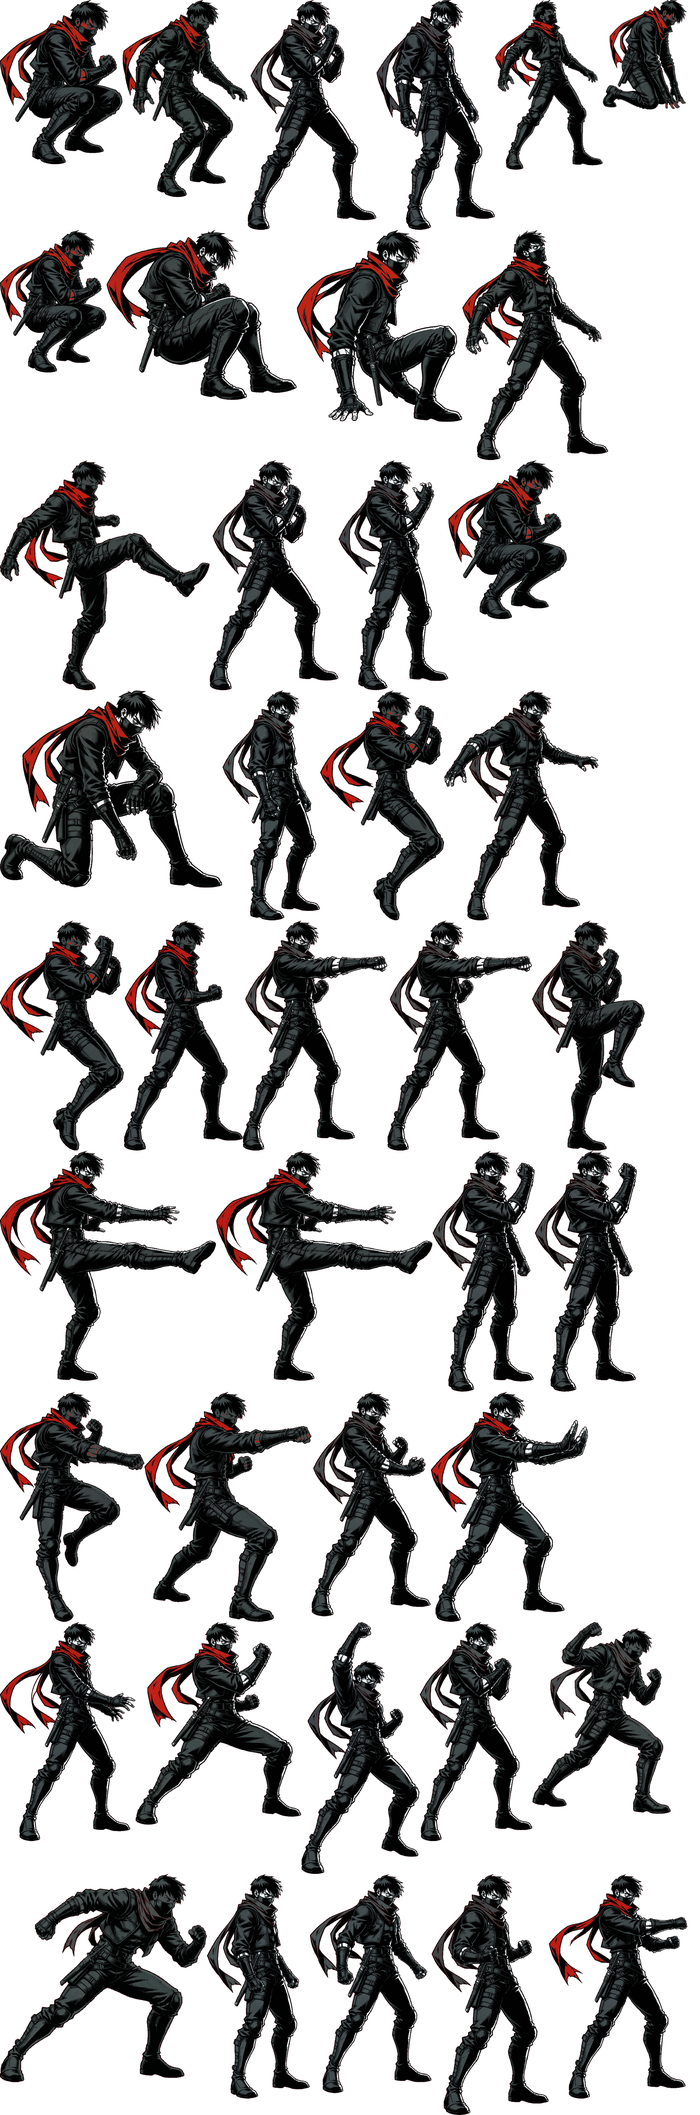
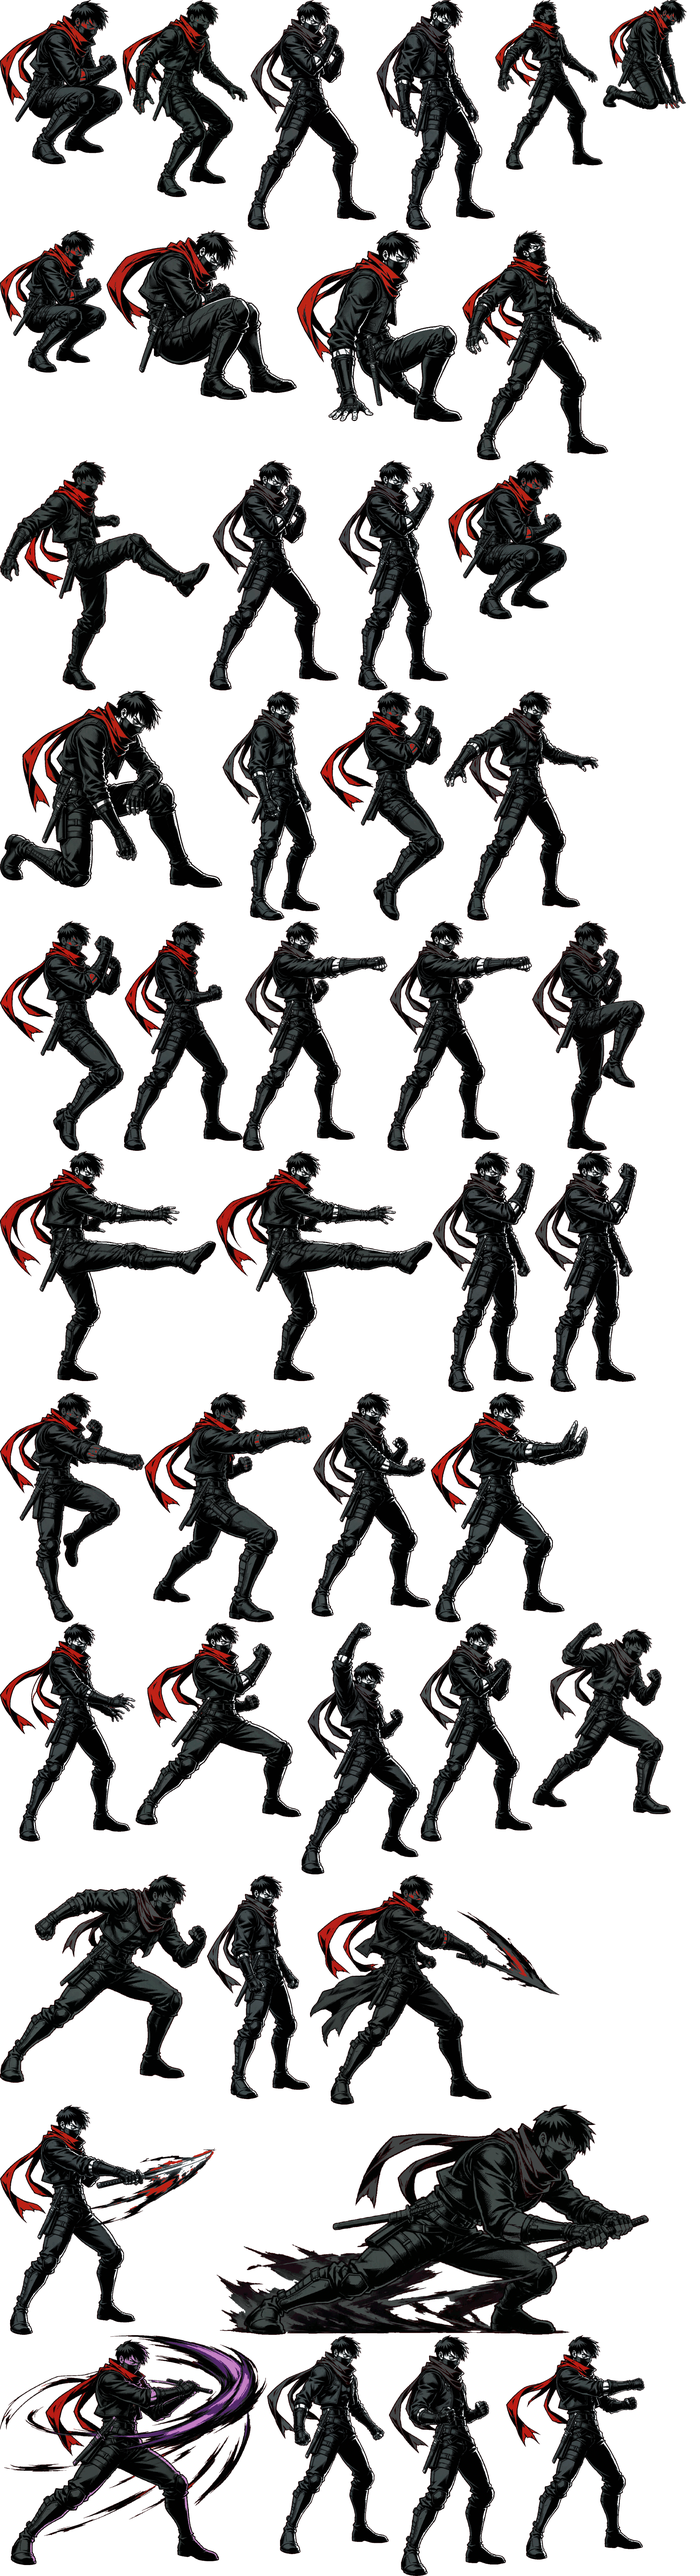
批次 20261027-0845 · [T269] 动作专属化 22/27：影二 + 真吾 各 4 招
改了什么：
- gen-poses 加 8 条（Eiji：紫黑刀气斜斩/上撩刀光/贴地残影/刀网；
  Shingo：零星火星/生涩踢腿/小火花/完整橙红火焰）
- build-sheet 加 eijispecial1-3 + eijisuper、shingospecial1-3 + shingosuper，
  并更新 EXCLUSIVE_OWNER
- poses.ts 加 8 个兜底
- eiji.ts / shingo.ts 各改 5 处

真吾的"未完成"表达得很到位：三招必杀都是"零星火星 + 姿势生涩"，只有超必杀才带起
完整火焰——这个层次差正好是"徒弟还没练成，但关键时候能爆发"。
影二的影すべり（贴地滑行）身下拖出大片紫黑残影，是这批动作幅度最大的一张。

出图：7/8 一次成功，eijikagesuberi 失败一次、单独重跑后成功。

怎么验证的：打包两个角色都检查了错误（grep -qi error），失败=0；art:check 通过；
npm run check 995 条全绿

diff --git a/src/data/chars/shingo.ts b/src/data/chars/shingo.ts
@@ -24,7 +24,7 @@ export const SHINGO: CharDef = {
 
     // ---------------------------------------------------------------- 必杀技
     // 荒咬み（未完成）：判定比京短一截
-    '236A': mv('236A', '荒咬み（未完成）', 'punchHeavy', 36, 'special', [
+    '236A': mv('236A', '荒咬み（未完成）', 'shingospecial1', 36, 'special', [
       hit('h1', {
         box: { x: 16, y: -62, w: 28, h: 14 },
         frames: [12, 15],
@@ -50,7 +50,7 @@ export const SHINGO: CharDef = {
     ], { input: { motion: '236', buttons: ['A'] } }),
 
     // 真吾キック：徒弟自己琢磨的踢
-    '214B': mv('214B', '真吾キック', 'kickHeavy', 38, 'special', [
+    '214B': mv('214B', '真吾キック', 'shingospecial2', 38, 'special', [
       hit('h1', {
         box: { x: 12, y: -62, w: 30, h: 18 },
         frames: [11, 15],
@@ -64,7 +64,7 @@ export const SHINGO: CharDef = {
     ], { input: { motion: '214', buttons: ['B'] }, travel: 50, travelFrames: 15 }),
 
     // 鬼焼き（未完成）：无敌帧也只有京的一半
-    '623A': mv('623A', '鬼焼き（未完成）', 'punchHeavy', 40, 'special', [
+    '623A': mv('623A', '鬼焼き（未完成）', 'shingospecial3', 40, 'special', [
       hit('h1', {
         box: { x: 6, y: -84, w: 24, h: 56 },
         frames: [6, 12],
@@ -78,7 +78,7 @@ export const SHINGO: CharDef = {
     ], { input: { motion: '623', buttons: ['A'] }, invuln: [{ frames: [1, 3], kind: 'full' }] }),
 
     // ---------------------------------------------------------------- 超必杀
-    '236236A': mv('236236A', '外式・駈け鳳麟', 'special', 60, 'super', [
+    '236236A': mv('236236A', '外式・駈け鳳麟', 'shingosuper', 60, 'super', [
       hit('h1', { box: { x: 12, y: -72, w: 34, h: 28 }, frames: [10, 14], damage: 30, hitStun: 16, hitstop: 7, meterGain: 0 }),
       hit('h2', { box: { x: 12, y: -74, w: 34, h: 32 }, frames: [18, 22], damage: 28, hitStun: 16, hitstop: 7, meterGain: 0 }),
       hit('h3', {
@@ -92,7 +92,7 @@ export const SHINGO: CharDef = {
       }),
     ], { input: { motion: '236236', buttons: ['A'] }, meterCost: 50, travel: 54, travelFrames: 12 }),
 
-    '236236AC': mv('236236AC', '外式・駈け鳳麟 MAX', 'special', 72, 'super', [
+    '236236AC': mv('236236AC', '外式・駈け鳳麟 MAX', 'shingosuper', 72, 'super', [
       hit('h1', { box: { x: 10, y: -74, w: 36, h: 30 }, frames: [8, 11], damage: 28, hitStun: 16, hitstop: 6, meterGain: 0 }),
       hit('h2', { box: { x: 10, y: -76, w: 36, h: 34 }, frames: [15, 18], damage: 26, hitStun: 16, hitstop: 6, meterGain: 0 }),
       hit('h3', { box: { x: 10, y: -78, w: 38, h: 38 }, frames: [22, 25], damage: 26, hitStun: 16, hitstop: 6, meterGain: 0 }),

diff --git a/src/data/chars/eiji.ts b/src/data/chars/eiji.ts
@@ -22,7 +22,7 @@ export const EIJI: CharDef = {
 
     // ---------------------------------------------------------------- 必杀技
     // 霞斬り：突进斩
-    '236A': mv('236A', '霞斬り', 'kickLight', 36, 'special', [
+    '236A': mv('236A', '霞斬り', 'eijispecial1', 36, 'special', [
       hit('h1', {
         box: { x: 14, y: -68, w: 34, h: 22 },
         frames: [9, 13],
@@ -36,7 +36,7 @@ export const EIJI: CharDef = {
     ], { input: { motion: '236', buttons: ['A'] }, travel: 72, travelFrames: 14 }),
 
     // 骨破ぎ：对空斩
-    '623A': mv('623A', '骨破ぎ', 'kickLight', 38, 'special', [
+    '623A': mv('623A', '骨破ぎ', 'eijispecial2', 38, 'special', [
       hit('h1', { box: { x: 6, y: -86, w: 28, h: 56 }, frames: [4, 9], damage: 28, hitStun: 16, hitstop: 6, meterGain: 5 }),
       hit('h2', {
         box: { x: 6, y: -92, w: 30, h: 64 },
@@ -50,7 +50,7 @@ export const EIJI: CharDef = {
     ], { input: { motion: '623', buttons: ['A'] }, invuln: [{ frames: [1, 5], kind: 'full' }] }),
 
     // 影すべり：低身滑铲（下段）
-    '214A': mv('214A', '影すべり', 'crouchKick', 34, 'special', [
+    '214A': mv('214A', '影すべり', 'eijispecial3', 34, 'special', [
       hit('h1', {
         box: { x: 10, y: -20, w: 32, h: 16 },
         frames: [9, 13],
@@ -75,7 +75,7 @@ export const EIJI: CharDef = {
     }),
 
     // ---------------------------------------------------------------- 超必杀
-    '236236A': mv('236236A', '斬鉄蟷螂', 'special', 66, 'super', [
+    '236236A': mv('236236A', '斬鉄蟷螂', 'eijisuper', 66, 'super', [
       hit('h1', { box: { x: 12, y: -72, w: 36, h: 30 }, frames: [8, 11], damage: 30, hitStun: 16, hitstop: 6, meterGain: 0 }),
       hit('h2', { box: { x: 12, y: -74, w: 38, h: 34 }, frames: [15, 18], damage: 28, hitStun: 16, hitstop: 6, meterGain: 0 }),
       hit('h3', { box: { x: 12, y: -76, w: 38, h: 36 }, frames: [22, 25], damage: 28, hitStun: 16, hitstop: 6, meterGain: 0 }),
@@ -90,7 +90,7 @@ export const EIJI: CharDef = {
       }),
     ], { input: { motion: '236236', buttons: ['A'] }, meterCost: 50, travel: 60, travelFrames: 14 }),
 
-    '236236AC': mv('236236AC', '斬鉄蟷螂 MAX', 'special', 78, 'super', [
+    '236236AC': mv('236236AC', '斬鉄蟷螂 MAX', 'eijisuper', 78, 'super', [
       hit('h1', { box: { x: 12, y: -74, w: 38, h: 32 }, frames: [6, 9], damage: 28, hitStun: 16, hitstop: 5, meterGain: 0 }),
       hit('h2', { box: { x: 12, y: -76, w: 38, h: 34 }, frames: [13, 16], damage: 26, hitStun: 16, hitstop: 5, meterGain: 0 }),
       hit('h3', { box: { x: 12, y: -78, w: 40, h: 38 }, frames: [20, 23], damage: 26, hitStun: 16, hitstop: 5, meterGain: 0 }),

diff --git a/src/render/poses.ts b/src/render/poses.ts
@@ -646,6 +646,15 @@ export const POSE_LIBRARY: Record<string, Pose> = {
   billyspecial2: { frameDuration: 1, loop: false, exclusive: 'billy', frames: [f({ head: p(5, -68), neck: p(5, -58), hip: p(1, -37), armFront: [p(20, -56), p(34, -56)], armBack: [p(-8, -54), p(-16, -50)] })] },
   billyspecial3: { frameDuration: 1, loop: false, exclusive: 'billy', frames: [f({ head: p(4, -68), neck: p(4, -58), hip: p(0, -37), armFront: [p(18, -56), p(30, -52)], armBack: [p(-12, -54), p(-22, -50)] })] },
   billysuper: { frameDuration: 1, loop: false, exclusive: 'billy', frames: [f({ head: p(3, -70), neck: p(2, -60), hip: p(0, -38), armFront: [p(20, -58), p(34, -56)], armBack: [p(-16, -58), p(-30, -56)] })] },
+  // Eiji / Shingo 专属必杀的兜底（key 与 anim 名一致）
+  eijispecial1: { frameDuration: 1, loop: false, exclusive: 'eiji', frames: [f({ head: p(5, -68), neck: p(5, -58), hip: p(1, -37), armFront: [p(18, -58), p(32, -50)], armBack: [p(-8, -54), p(-16, -48)] })] },
+  eijispecial2: { frameDuration: 1, loop: false, exclusive: 'eiji', frames: [f({ head: p(6, -66), neck: p(6, -56), hip: p(2, -36), armFront: [p(16, -46), p(28, -62)], armBack: [p(-10, -52), p(-18, -46)] })] },
+  eijispecial3: { frameDuration: 1, loop: false, exclusive: 'eiji', frames: [f({ head: p(8, -54), neck: p(8, -46), hip: p(3, -28), armFront: [p(16, -38), p(30, -34)], armBack: [p(-12, -42), p(-20, -38)] })] },
+  eijisuper: { frameDuration: 1, loop: false, exclusive: 'eiji', frames: [f({ head: p(4, -68), neck: p(4, -58), hip: p(0, -37), armFront: [p(20, -56), p(34, -52)], armBack: [p(-14, -56), p(-28, -52)] })] },
+  shingospecial1: { frameDuration: 1, loop: false, exclusive: 'shingo', frames: [f({ head: p(5, -68), neck: p(5, -58), hip: p(1, -37), armFront: [p(18, -56), p(30, -56)], armBack: [p(-10, -52), p(-16, -46)] })] },
+  shingospecial2: { frameDuration: 1, loop: false, exclusive: 'shingo', frames: [f({ head: p(-2, -70), neck: p(-2, -60), hip: p(0, -39), legFront: [p(18, -52), p(28, -48)], legBack: [p(-8, -24), p(-8, -2)] })] },
+  shingospecial3: { frameDuration: 1, loop: false, exclusive: 'shingo', frames: [f({ head: p(2, -70), neck: p(2, -60), hip: p(0, -39), armFront: [p(10, -66), p(8, -80)], armBack: [p(-10, -50), p(-14, -42)] })] },
+  shingosuper: { frameDuration: 1, loop: false, exclusive: 'shingo', frames: [f({ head: p(6, -68), neck: p(6, -58), hip: p(2, -37), armFront: [p(20, -56), p(32, -54)], armBack: [p(8, -56), p(20, -54)] })] },
   /** 升龙系：整个人向上冲，手臂上举 */
   specialUppercut: {
     frameDuration: 1,

diff --git a/docs/MOVE-PER-CHAR.md b/docs/MOVE-PER-CHAR.md
@@ -81,8 +81,8 @@ mv('236A', '百拾四式・荒咬', 'punchLight', 26, 'special', [...])
 | 17 | チョイ choi | 旋風斬 / 飛翔空裂斬 / 疾風斬 / 真！超絶竜巻斬 | **done** |
 | 18 | チン chang | 鉄球大回転 / 鉄球大圧殺 / 大破壊投げ / 鉄球大暴走 | **done** |
 | 19 | ビリー billy | 旋風棍 / 三節棍中段打ち / 火龍棍 / 超火炎旋風棍 | **done** |
-| 20 | 影二 eiji | 霞斬り / 影すくい / 骸縫い / 斬鉄 | - |
-| 21 | 矢吹真吾 shingo | 外式・駈け / 百拾四式・荒咬み / 外式・轟斧 / 真吾謹製オレ様必殺 | - |
+| 20 | 影二 eiji | 霞斬り / 骨破ぎ / 影すべり / 斬鉄蟷螂 | **done** |
+| 21 | 矢吹真吾 shingo | 荒咬み（未完成）/ 真吾キック / 鬼焼き（未完成）/ 外式・駈け鳳麟 | **done** |
 | 22 | 社 yashiro | ミリオンラッシュ / ダークエレジー / ディザスターパンチ / ファイナルインパクト | - |
 | 23 | シェルミー shermie | シャイニングアックス / ショルダーダッシュ / アクセルスピンナックル / ファイナルスピン | - |
 | 24 | クリス chris | 舞首 / 射殺 / 乱れ菊 / サイコリフレクター | - |
@@ -90,7 +90,7 @@ mv('236A', '百拾四式・荒咬', 'punchLight', 26, 'special', [...])
 | 26 | 暴走庵 orochi_iori | 百八式・闇払い / 百式・鬼焼き / 屑風 / 禁千弐百拾八式・八稚女 | - |
 | 27 | 覚醒レオナ orochi_leona | グランドセイバー / ムーンストライカー / Xキャリバー / リボルブブラスター | - |
 
-**完成度：20 / 27**
+**完成度：22 / 27**
 
 ## 六、已完成记录
 
@@ -358,6 +358,31 @@ benispecial1: {
 | 超火炎旋風棍（超必杀） | `billysuper` | **巨大火龙缠绕全身、火焰旋涡** |
 
 > 这一组的火焰是 20 个角色里最猛的，尤其 Billy 最后一张——整条龙形火焰绕着人转。
+
+### 21. 影二 Eiji（done）
+
+忍者、刀、紫黑色刀气：
+
+| 招式 | 专属动画 | 出图效果 |
+|---|---|---|
+| 霞斬り（236A） | `eijispecial1` | 刀拉出**紫黑刀气残影** |
+| 骨破ぎ（623A） | `eijispecial2` | 上撩斩、紫黑刀光 |
+| 影すべり（214A） | `eijispecial3` | **贴地滑行、身下大片紫黑残影** |
+| 斬鉄蟷螂（超必杀） | `eijisuper` | 周围交织出一圈**紫黑刀网** |
+
+### 22. 矢吹真吾 Shingo（done）
+
+京的徒弟、招式**未完成**——这个设定在出图里明确表达出来了：
+
+| 招式 | 专属动画 | 出图效果 |
+|---|---|---|
+| 荒咬み（未完成） | `shingospecial1` | 出拳但**只有零星几点橙红火星** |
+| 真吾キック | `shingospecial2` | **大幅踢腿、身体后仰不稳** |
+| 鬼焼き（未完成） | `shingospecial3` | 跳打、**一点小火花** |
+| 外式・駈け鳳麟（超必杀） | `shingosuper` | 全力突进、**终于带起一片完整橙红火焰** |
+
+> 真吾的三招必杀都是"零星火星 + 姿势生涩"，只有超必杀才有完整火焰——
+> 这个**层次差**正好表达了"徒弟还没练成，但关键时候能爆发"，比单纯换个颜色有意思。
 
 ## 七、执行约定
 

diff --git a/.continue/doing/59bce7.md b/.continue/doing/59bce7.md
@@ -1,0 +1,15 @@
+# 队列 · 会话 59bce766a368447cf9cf15c7e36322c83
+
+> 状态：执行中
+> 创建：2026-10-27
+> 批次：20261027-0845
+
+> 本批目标：动作专属化第 21、22 个角色（影二、真吾）。
+
+- [x] [T269] Eiji + Shingo 各 4 个必杀专属动作（22/27）→ 出图 + 数据 + 打包验证
+  - 做了什么：①`gen-poses.mjs` 加 8 条（Eiji：紫黑刀气斜斩/上撩刀光/贴地残影/刀网；Shingo：零星火星/生涩踢腿/小火花/完整橙红火焰）；②`build-sheet.mjs` 加 `eijispecial1-3`+`eijisuper`、`shingospecial1-3`+`shingosuper`，并更新 `EXCLUSIVE_OWNER`；③`poses.ts` 加 8 个兜底；④`eiji.ts`/`shingo.ts` 各改 5 处
+  - **真吾的"未完成"表达得很到位**：三招必杀都是"零星火星 + 姿势生涩（踢腿身体后仰不稳、跳打歪斜）"，只有超必杀才带起完整火焰——这个层次差正好是"徒弟还没练成，但关键时候能爆发"
+  - **影二的动感**：`影すべり`（贴地滑行）那张身下拖出大片紫黑残影，是这批动作幅度最大的一张
+  - 出图情况：7/8 一次成功，`eijikagesuberi` 失败一次、单独重跑后成功
+  - 验证：打包两个角色都检查了错误（`grep -qi error`），失败=0；`art:check` 通过；`npm run check` **995 条全绿**
+  - 批次：20261027-0845

diff --git a/.continue/TASKS.md b/.continue/TASKS.md
@@ -287,3 +287,4 @@
 - [x] T266 角色动作专属化 16/27：椎拳崇（青绿气+巨龙）+ 鎮元斎（醉拳酒气）各 4 招
 - [x] T267 角色动作专属化 18/27：Kim（青白腿法）+ Choi（紫色龙卷）各 4 招
 - [x] T268 角色动作专属化 20/27：Chang（铁球橙焰）+ Billy（三节棍火龙）各 4 招
+- [x] T269 角色动作专属化 22/27：影二（紫黑刀气）+ 真吾（未完成招式）各 4 招
